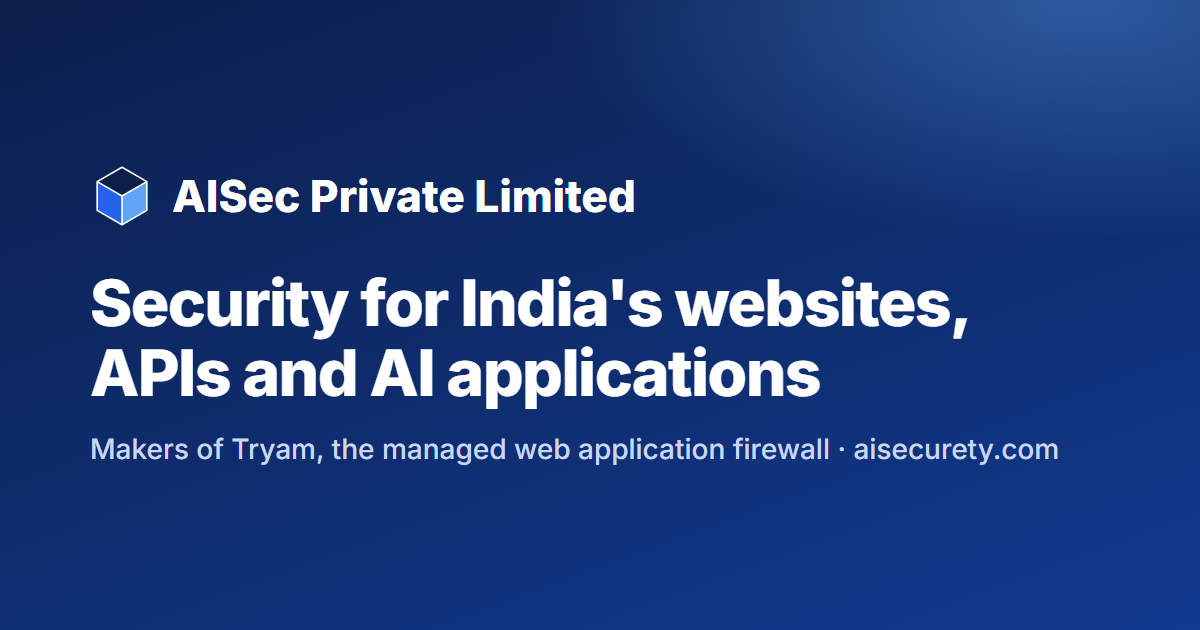
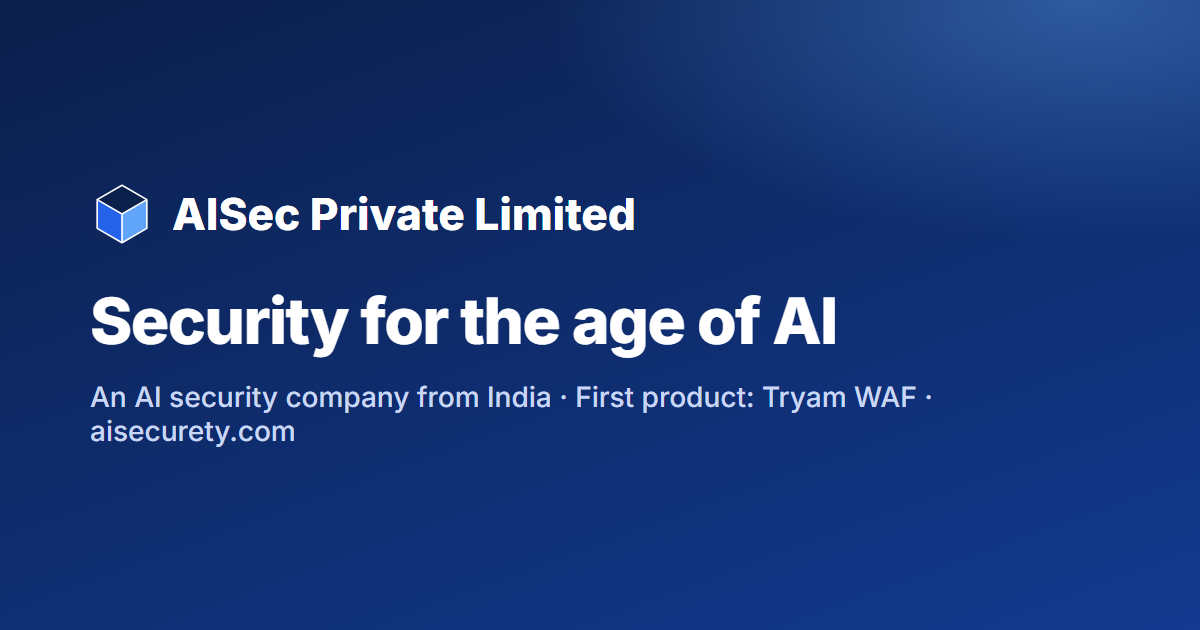
Position AISec as an AI security company; Tryam WAF as product 1

Changed region(s): [[0.0617, 0.4222, 0.8942, 0.754], [0.0617, 0.2714, 0.555, 0.3921]]

diff --git a/index.html b/index.html
@@ -3,12 +3,12 @@
 <head>
 <meta charset="utf-8">
 <meta name="viewport" content="width=device-width, initial-scale=1">
-<title>AISec Private Limited: web and AI application security, made in India</title>
-<meta name="description" content="AISec Private Limited is an Indian cyber security company. We build Tryam, a managed web application firewall, and help businesses secure their websites, APIs and AI applications.">
+<title>AISec Private Limited: an AI security company from India</title>
+<meta name="description" content="AISec Private Limited is an Indian AI security company. We build products for the security challenges AI brings to websites, APIs and AI applications. Our first product is Tryam WAF.">
 <link rel="canonical" href="https://aisecurety.com/">
 <meta property="og:site_name" content="AISec Private Limited">
-<meta property="og:title" content="AISec Private Limited: web and AI application security, made in India">
-<meta property="og:description" content="We build Tryam, a managed web application firewall, and help Indian businesses secure their websites, APIs and AI applications.">
+<meta property="og:title" content="AISec Private Limited: an AI security company from India">
+<meta property="og:description" content="We build products for the security challenges AI brings to websites, APIs and AI applications. Our first product is Tryam WAF.">
 <meta property="og:type" content="website">
 <meta property="og:url" content="https://aisecurety.com/">
 <meta property="og:image" content="https://aisecurety.com/img/og.png">
@@ -19,19 +19,20 @@
 <link rel="preconnect" href="https://fonts.gstatic.com" crossorigin>
 <link href="https://fonts.googleapis.com/css2?family=Inter:wght@400;500;600;700;800&display=swap" rel="stylesheet">
 <link rel="stylesheet" href="/styles.css">
-<script type="application/ld+json">{"@context":"https://schema.org","@type":"Organization","@id":"https://aisecurety.com/#organization","name":"AISec Private Limited","legalName":"AISec Private Limited","url":"https://aisecurety.com/","logo":"https://aisecurety.com/img/logo-mark.svg","description":"AISec Private Limited is an Indian cyber security company. It builds Tryam, a managed web application firewall, and provides security consulting, secure development and infrastructure security services.","identifier":{"@type":"PropertyValue","propertyID":"CIN","value":"U62011UW2026PTC260693"},"foundingDate":"2026","telephone":"+918287593670","email":"support@tryamaisec.com","address":{"@type":"PostalAddress","streetAddress":"13, Atta Mazra, Shamli, Kandhala Rural Shamli","addressLocality":"Kandhala","addressRegion":"Uttar Pradesh","postalCode":"247775","addressCountry":"IN"},"brand":{"@type":"Brand","name":"Tryam","url":"https://tryamaisec.com/"},"sameAs":["https://tryamaisec.com/","https://www.youtube.com/@tryamaisec"]}</script>
+<script type="application/ld+json">{"@context":"https://schema.org","@type":"Organization","@id":"https://aisecurety.com/#organization","name":"AISec Private Limited","legalName":"AISec Private Limited","url":"https://aisecurety.com/","logo":"https://aisecurety.com/img/logo-mark.svg","description":"AISec Private Limited is an Indian AI security company. It builds products for the security challenges AI brings to websites, APIs and AI applications. Its first product is Tryam WAF, a managed web application firewall.","knowsAbout":["AI security","Web application security","API security","Prompt injection","Bot management","Web application firewall"],"identifier":{"@type":"PropertyValue","propertyID":"CIN","value":"U62011UW2026PTC260693"},"foundingDate":"2026","telephone":"+918287593670","email":"support@tryamaisec.com","address":{"@type":"PostalAddress","streetAddress":"13, Atta Mazra, Shamli, Kandhala Rural Shamli","addressLocality":"Kandhala","addressRegion":"Uttar Pradesh","postalCode":"247775","addressCountry":"IN"},"brand":{"@type":"Brand","name":"Tryam","url":"https://tryamaisec.com/"},"sameAs":["https://tryamaisec.com/","https://www.youtube.com/@tryamaisec"]}</script>
 </head>
 <body>
 <a class="skip" href="#main">Skip to content</a>
 <header class="top" id="top">
   <div class="wrap top-in">
-    <a class="brand" href="/" aria-label="AISec Private Limited, home"><img src="/img/logo-mark.svg" alt="" width="34" height="34"><span>AISec<small>Private Limited</small></span></a>
+    <a class="brand" href="/" aria-label="AISec Private Limited, home"><img src="/img/logo-mark.svg" alt="" width="34" height="34"><span>AISec<small>AI security company</small></span></a>
     <input type="checkbox" id="nav-t" class="nav-t" aria-label="Open menu">
     <label for="nav-t" class="nav-b" aria-hidden="true"><span></span><span></span><span></span></label>
     <nav aria-label="Main">
-      <a href="#product">Product</a>
+      <a href="#challenge">The challenge</a>
+      <a href="#products">Products</a>
+      <a href="#approach">Approach</a>
       <a href="#services">Services</a>
-      <a href="#why">Why AISec</a>
       <a href="#company">Company</a>
       <a class="btn small" href="#contact">Contact us</a>
     </nav>
@@ -42,29 +43,29 @@
 <section class="hero">
   <div class="wrap hero-in">
     <div class="hero-copy">
-      <p class="eyebrow">Cyber security company · Made in India</p>
-      <h1>Security for India's websites, APIs and AI applications</h1>
-      <p class="lead">AISec Private Limited builds <strong>Tryam</strong>, a managed web application firewall that stops attacks before they reach a business's website. Alongside the product, we help organisations design, build and run their systems securely.</p>
+      <p class="eyebrow">AI security company · Made in India</p>
+      <h1>Security for the age of AI</h1>
+      <p class="lead">AI is changing how applications are built and how they are attacked. <strong>AISec</strong> builds security products for the challenges AI brings to websites, APIs and AI applications, starting with <strong>Tryam WAF</strong>.</p>
       <div class="cta">
-        <a class="btn" href="https://tryamaisec.com/get-started">Get started with Tryam</a>
+        <a class="btn" href="#products">Our first product: Tryam WAF</a>
         <a class="btn ghost" href="#contact">Talk to us</a>
       </div>
       <ul class="hero-points">
         <li>Indian company, registered in Uttar Pradesh</li>
-        <li>Edge servers in Mumbai and Singapore</li>
-        <li>Built for teams without a security department</li>
+        <li>Focused only on AI-era security</li>
+        <li>First product live: Tryam WAF</li>
       </ul>
     </div>
     <div class="hero-art" aria-hidden="true">
       <div class="shield">
         <div class="flow">
-          <div class="node in">Visitors and bots</div>
+          <div class="node in">Users, bots and AI agents</div>
           <div class="arrow"></div>
-          <div class="node core"><img src="/img/logo-mark.svg" alt="" width="40" height="40"><b>Tryam edge</b><span>filters attacks</span></div>
+          <div class="node core"><img src="/img/logo-mark.svg" alt="" width="40" height="40"><b>AISec protection</b><span>for web, APIs and AI apps</span></div>
           <div class="arrow ok"></div>
-          <div class="node out">Your website</div>
+          <div class="node out">Your website, API or AI app</div>
         </div>
-        <div class="blocked"><span>SQL injection</span><span>XSS</span><span>Bot floods</span><span>Prompt injection</span></div>
+        <div class="blocked"><span>Prompt injection</span><span>Jailbreaks</span><span>Data leaks</span><span>Bot floods</span><span>SQL injection</span></div>
       </div>
     </div>
   </div>
@@ -72,51 +73,79 @@
 
 <section class="band">
   <div class="wrap band-in">
-    <div><b>3 steps</b><span>to put a website behind Tryam</span></div>
-    <div><b>Detect first</b><span>see what would be blocked before you enforce</span></div>
-    <div><b>HTTPS included</b><span>certificates issued and renewed for every domain</span></div>
-    <div><b>30-day trial</b><span>no card needed</span></div>
+    <div><b>AI security</b><span>our only focus</span></div>
+    <div><b>Tryam WAF</b><span>our first product, live today</span></div>
+    <div><b>Web, APIs, AI apps</b><span>protected at the edge</span></div>
+    <div><b>Built in India</b><span>for Indian businesses and rules</span></div>
   </div>
 </section>
 
-<section class="sec" id="problem">
-  <div class="wrap two">
-    <div>
-      <p class="eyebrow">The problem</p>
-      <h2>Most Indian businesses are online. Few have a security team.</h2>
-    </div>
-    <div class="prose">
-      <p>Small and mid-sized companies, start-ups and agencies run websites, online stores, APIs and, more and more, AI chat and assistant features. Automated attacks such as SQL injection, cross-site scripting, credential stuffing and bot floods hit every public site, whatever its size.</p>
-      <p>Enterprise security tools assume a dedicated team to configure and watch them. Indian rules also expect more from businesses: CERT-In requires certain cyber incidents to be reported within 6 hours.</p>
-      <p>AISec exists to give these businesses protection they can switch on in minutes and understand without being security specialists.</p>
-    </div>
-  </div>
-</section>
-
-<section class="sec alt" id="product">
+<section class="sec" id="challenge">
   <div class="wrap">
     <div class="head">
-      <p class="eyebrow">Our product</p>
-      <h2>Tryam: a managed web application firewall</h2>
-      <p class="sub">A business points its domain at Tryam. Our edge filters every request and passes only clean traffic to the business's own server, with HTTPS included.</p>
+      <p class="eyebrow">The challenge</p>
+      <h2>AI has created new ways to attack applications</h2>
+      <p class="sub">Businesses are adding AI chat, assistants and AI-driven APIs to their products. Attackers are using automation at a scale they never had before. Traditional security tools were not designed for either.</p>
     </div>
     <div class="grid three">
-      <article class="card"><div class="ic" aria-hidden="true">⛨</div><h3>Stops common web attacks</h3><p>Blocks SQL injection, cross-site scripting, path traversal, command injection and more, at the edge, before they reach the site.</p></article>
-      <article class="card"><div class="ic" aria-hidden="true">◎</div><h3>Detect mode first</h3><p>New domains start in detect mode, so a business sees exactly what would be blocked before switching to block mode.</p></article>
-      <article class="card"><div class="ic" aria-hidden="true">⇅</div><h3>Rate limits and bot control</h3><p>Per-site and per-path limits, for example on a login page. An address that floods a site is cut off automatically.</p></article>
-      <article class="card"><div class="ic" aria-hidden="true">✦</div><h3>APIs and AI applications</h3><p>OpenAPI schema validation, JWT checks and object-enumeration alerts for APIs, and an AI firewall against prompt injection, jailbreaks and data leaks.</p></article>
-      <article class="card"><div class="ic" aria-hidden="true">⎙</div><h3>CERT-In report drafts</h3><p>For an incident, the console prepares a draft CERT-In report from what the firewall saw, to help meet India's 6-hour reporting rule.</p></article>
-      <article class="card"><div class="ic" aria-hidden="true">⌂</div><h3>White label for partners</h3><p>Agencies and managed service providers can offer Tryam under their own brand, with a partner console on their own domain.</p></article>
+      <article class="card"><div class="ic" aria-hidden="true">⌘</div><h3>Prompt injection and jailbreaks</h3><p>Crafted inputs try to make an AI application ignore its instructions, reveal its system prompt or do things it should not.</p></article>
+      <article class="card"><div class="ic" aria-hidden="true">⊘</div><h3>Data leaks through AI responses</h3><p>Personal data, secrets and internal information can leak out through what an AI application says.</p></article>
+      <article class="card"><div class="ic" aria-hidden="true">⇶</div><h3>Automated attacks at scale</h3><p>Bots and scripts sweep many sites, rotate addresses and try stolen passwords faster than any person can respond.</p></article>
+      <article class="card"><div class="ic" aria-hidden="true">⇄</div><h3>APIs as the new front door</h3><p>AI features run on APIs, and API abuse such as object enumeration and broken token checks exposes data directly.</p></article>
+      <article class="card"><div class="ic" aria-hidden="true">⛨</div><h3>Classic web attacks have not gone away</h3><p>SQL injection, cross-site scripting and command injection still hit every public site, now launched by automated tools.</p></article>
+      <article class="card"><div class="ic" aria-hidden="true">⎙</div><h3>Stricter rules in India</h3><p>CERT-In requires certain cyber incidents to be reported within 6 hours, and most smaller businesses have no security team.</p></article>
+    </div>
+  </div>
+</section>
+
+<section class="sec alt" id="products">
+  <div class="wrap">
+    <div class="head">
+      <p class="eyebrow">Products</p>
+      <h2>Every AISec product answers an AI-era security challenge</h2>
+      <p class="sub">We build focused products, each solving one real problem that AI has created or made worse. Our first product protects the place where most of these attacks arrive: the website, API or AI application itself.</p>
     </div>
 
-    <div class="steps">
-      <h3>Onboarding in three steps</h3>
-      <ol>
-        <li><b>Add the domain</b><span>and tell Tryam where the website's server lives.</span></li>
-        <li><b>Prove ownership</b><span>by publishing one DNS TXT record.</span></li>
-        <li><b>Point the A record</b><span>at Tryam. Protection and HTTPS start straight away.</span></li>
+    <article class="product">
+      <div class="product-head">
+        <img src="/img/logo-mark.svg" alt="" width="56" height="56">
+        <div>
+          <p class="tag">Product 1 · Available now</p>
+          <h3>Tryam WAF</h3>
+          <p>A managed web application firewall. A business points its domain at Tryam; our edge filters every request and passes only clean traffic to its own server, with HTTPS included.</p>
+        </div>
+        <a class="btn" href="https://tryamaisec.com/">Visit tryamaisec.com</a>
+      </div>
+      <div class="grid three">
+        <div class="feat"><h4>AI firewall</h4><p>Protection for AI applications against prompt injection, jailbreaks and data leaks such as personal data and secrets.</p></div>
+        <div class="feat"><h4>API protection</h4><p>OpenAPI schema validation, JWT checks and object-enumeration (BOLA) alerts, plus API discovery on every plan.</p></div>
+        <div class="feat"><h4>Bot and abuse control</h4><p>Per-site and per-path rate limits, and an address that floods a site is cut off automatically.</p></div>
+        <div class="feat"><h4>Web attack filtering</h4><p>Blocks SQL injection, cross-site scripting, path traversal, command injection and more, at the edge.</p></div>
+        <div class="feat"><h4>Security visibility</h4><p>Traffic and blocked requests per domain, and a searchable security event log that can be exported as CSV.</p></div>
+        <div class="feat"><h4>CERT-In ready</h4><p>For an incident, the console prepares a draft CERT-In report from what the firewall saw, to help meet the 6-hour rule.</p></div>
+      </div>
+      <ol class="mini-steps">
+        <li><b>Add the domain</b> and where its server lives</li>
+        <li><b>Prove ownership</b> with one DNS TXT record</li>
+        <li><b>Point the A record</b> at Tryam: protection and HTTPS start</li>
       </ol>
-      <a class="btn" href="https://tryamaisec.com/">Visit tryamaisec.com</a>
+    </article>
+  </div>
+</section>
+
+<section class="sec dark" id="approach">
+  <div class="wrap">
+    <div class="head">
+      <p class="eyebrow">Our approach</p>
+      <h2>How we build AI security products</h2>
+    </div>
+    <div class="grid three">
+      <article class="card"><h3>Start from a real challenge</h3><p>Each product begins with an attack businesses face today, not with a technology looking for a use.</p></article>
+      <article class="card"><h3>Simple enough to switch on</h3><p>No security team needed. Tryam takes three onboarding steps, and new domains start in detect mode so nothing is blocked by surprise.</p></article>
+      <article class="card"><h3>Resilient by design</h3><p>Tryam's edge runs on three servers, two in Mumbai and one in Singapore, each protecting traffic on its own. A standby control server takes over in about two seconds.</p></article>
+      <article class="card"><h3>Made for Indian rules</h3><p>CERT-In report drafts, an exportable security event log, and team sign-in with single sign-on and two-factor codes.</p></article>
+      <article class="card"><h3>Reach through partners</h3><p>Agencies and managed service providers can offer our products under their own brand, with a partner console on their own domain.</p></article>
+      <article class="card"><h3>Honest and transparent</h3><p>A 30-day free trial with no card needed, and customers see what would be blocked before anything is blocked.</p></article>
     </div>
   </div>
 </section>
@@ -125,69 +154,53 @@
   <div class="wrap">
     <div class="head">
       <p class="eyebrow">Services</p>
-      <h2>Security services alongside the product</h2>
-      <p class="sub">Our team works with organisations that want hands-on help to secure what they build and run.</p>
+      <h2>AI security services alongside our products</h2>
+      <p class="sub">For organisations that want hands-on help to secure the AI features, APIs and systems they build and run.</p>
     </div>
     <div class="grid two-col">
-      <article class="card wide"><h3>Security consulting and support</h3><p>Reviews of websites, APIs and cloud set-ups, guidance on fixing what we find, and help preparing for audits and CERT-In obligations.</p></article>
-      <article class="card wide"><h3>Secure design and development</h3><p>Design and development of web applications and APIs with security built in from the start: authentication, access control, input handling and logging.</p></article>
+      <article class="card wide"><h3>AI and application security consulting</h3><p>Reviews of AI features, websites, APIs and cloud set-ups, guidance on fixing what we find, and help preparing for audits and CERT-In obligations.</p></article>
+      <article class="card wide"><h3>Secure AI and application development</h3><p>Design and development of AI features, web applications and APIs with security built in: input and output handling, authentication, access control and logging.</p></article>
       <article class="card wide"><h3>Infrastructure and network security management</h3><p>Setting up and managing the security of servers and networks: firewalls, HTTPS, monitoring, backups and incident response.</p></article>
-      <article class="card wide"><h3>Security research and development</h3><p>Research into new attack techniques against web and AI applications, turned into protection inside Tryam.</p></article>
+      <article class="card wide"><h3>AI security research and development</h3><p>Research into new attack techniques against web and AI applications, turned into protection inside our products.</p></article>
     </div>
   </div>
 </section>
 
-<section class="sec dark" id="why">
-  <div class="wrap">
-    <div class="head">
-      <p class="eyebrow">Why AISec</p>
-      <h2>Built in India, for the way Indian businesses work</h2>
-    </div>
-    <div class="grid three">
-      <article class="card"><h3>Simple enough to switch on</h3><p>Three onboarding steps, detect mode before block mode and automatic HTTPS. No security team needed to get started.</p></article>
-      <article class="card"><h3>Resilient by design</h3><p>Three edge servers, two in Mumbai and one in Singapore, each protecting traffic on its own. If the main control server fails, a standby takes over in about two seconds.</p></article>
-      <article class="card"><h3>Ready for Indian rules</h3><p>CERT-In report drafts, a searchable security event log that can be exported, and team sign-in with single sign-on and two-factor codes.</p></article>
-      <article class="card"><h3>Made for AI-era applications</h3><p>Protection for APIs and AI features, not just web pages: schema checks, token checks and an AI firewall for prompts and responses.</p></article>
-      <article class="card"><h3>Scales through partners</h3><p>A white-label partner programme lets agencies and managed service providers protect many client sites under their own brand.</p></article>
-      <article class="card"><h3>Honest and transparent</h3><p>Every plan starts with a 30-day free trial with no card needed, and customers see what Tryam would block before it blocks anything.</p></article>
-    </div>
-  </div>
-</section>
-
-<section class="sec" id="company">
+<section class="sec alt" id="company">
   <div class="wrap two">
     <div>
       <p class="eyebrow">Company</p>
       <h2>About AISec Private Limited</h2>
       <div class="prose">
-        <p>AISec Private Limited is a private limited company incorporated in India in 2026. We develop and operate Tryam, our managed web application firewall, and provide information technology security services to businesses.</p>
-        <p>Our mission is to make strong web and AI application security simple and accessible for every Indian business, from a single website to an agency looking after hundreds.</p>
+        <p>AISec Private Limited is an AI security company, incorporated in India in 2026. Every product we build addresses a security challenge that AI has created or made worse. Our first product is Tryam WAF, a managed web application firewall with protection for websites, APIs and AI applications.</p>
+        <p>Our mission is to make AI-era security simple and accessible for every Indian business, from a single website to an agency looking after hundreds.</p>
       </div>
     </div>
     <dl class="facts">
       <div><dt>Legal name</dt><dd>AISec Private Limited</dd></div>
+      <div><dt>Focus</dt><dd>AI security products and services</dd></div>
       <div><dt>Corporate Identity Number (CIN)</dt><dd class="mono">U62011UW2026PTC260693</dd></div>
       <div><dt>Incorporated</dt><dd>2026, India</dd></div>
       <div><dt>Registered office</dt><dd>13, Atta Mazra, Shamli, Kandhala Rural Shamli, Kandhala, Uttar Pradesh 247775, India</dd></div>
       <div><dt>Registered for GST</dt><dd>Yes, Uttar Pradesh</dd></div>
-      <div><dt>Product</dt><dd><a href="https://tryamaisec.com/">Tryam</a>, managed web application firewall</dd></div>
+      <div><dt>First product</dt><dd><a href="https://tryamaisec.com/">Tryam WAF</a>, managed web application firewall</dd></div>
     </dl>
   </div>
 </section>
 
-<section class="sec alt" id="contact">
+<section class="sec" id="contact">
   <div class="wrap two">
     <div>
       <p class="eyebrow">Contact</p>
       <h2>Talk to us</h2>
-      <p class="sub">For the product, services, partnerships or investment enquiries, reach us by email, phone or WhatsApp.</p>
+      <p class="sub">For our products, services, partnerships or investment enquiries, reach us by email, phone or WhatsApp.</p>
     </div>
     <div class="contact">
       <a class="c-row" href="mailto:support@tryamaisec.com"><span>Email</span><b>support@tryamaisec.com</b></a>
       <a class="c-row" href="tel:+918287593670"><span>Phone</span><b>+91 82875 93670</b></a>
       <a class="c-row" href="https://wa.me/918287593670" rel="noopener"><span>WhatsApp</span><b>Chat with us</b></a>
       <div class="c-row"><span>Office</span><b>13, Atta Mazra, Shamli, Kandhala Rural Shamli, Kandhala, Uttar Pradesh 247775, India</b></div>
-      <a class="btn" href="https://tryamaisec.com/get-started">Get started with Tryam</a>
+      <a class="btn" href="https://tryamaisec.com/get-started">Get started with Tryam WAF</a>
     </div>
   </div>
 </section>
@@ -195,9 +208,9 @@
 
 <footer class="foot">
   <div class="wrap foot-in">
-    <div class="foot-brand"><img src="/img/logo-mark.svg" alt="" width="28" height="28"><div><b>AISec Private Limited</b><span>CIN U62011UW2026PTC260693</span></div></div>
+    <div class="foot-brand"><img src="/img/logo-mark.svg" alt="" width="28" height="28"><div><b>AISec Private Limited</b><span>AI security company · CIN U62011UW2026PTC260693</span></div></div>
     <nav aria-label="Footer">
-      <a href="https://tryamaisec.com/">Tryam</a>
+      <a href="https://tryamaisec.com/">Tryam WAF</a>
       <a href="https://tryamaisec.com/privacy">Privacy</a>
       <a href="https://tryamaisec.com/terms">Terms</a>
       <a href="https://tryamaisec.com/refunds">Refunds</a>

diff --git a/styles.css b/styles.css
@@ -9,7 +9,7 @@ body{margin:0;font:16px/1.65 Inter,system-ui,-apple-system,"Segoe UI",Roboto,Ari
 img{max-width:100%;display:block}
 a{color:var(--blue);text-decoration:none}
 a:hover{text-decoration:underline}
-h1,h2,h3{color:var(--ink);line-height:1.2;letter-spacing:-.02em;margin:0 0 .5em}
+h1,h2,h3{color:var(--ink);line-height:1.2;letter-spacing:-.02em;margin:0 0 .5em;text-wrap:balance}
 h1{font-size:clamp(2.1rem,4.6vw,3.4rem);font-weight:800}
 h2{font-size:clamp(1.6rem,3vw,2.25rem);font-weight:750}
 h3{font-size:1.1rem;font-weight:650}
@@ -148,3 +148,19 @@ a.c-row:hover{border-color:var(--blue);text-decoration:none}
   .nav-t:checked~nav{display:flex}
 }
 @media (prefers-reduced-motion:reduce){html{scroll-behavior:auto}.btn{transition:none}}
+
+/* product */
+.product{background:#fff;border:1px solid var(--line);border-radius:18px;box-shadow:var(--shadow);padding:34px;border-top:4px solid var(--blue)}
+.product-head{display:grid;grid-template-columns:auto 1fr auto;gap:24px;align-items:center;margin-bottom:30px}
+.product-head h3{font-size:1.7rem;margin:0 0 .3em}
+.product-head p{margin:0;color:var(--text)}
+.tag{display:inline-block;font-size:.74rem;font-weight:700;letter-spacing:.1em;text-transform:uppercase;color:#047857;background:#d1fae5;border-radius:999px;padding:3px 10px;margin-bottom:8px!important}
+.feat{padding:18px 20px;border-radius:12px;background:var(--soft);border:1px solid var(--line)}
+.feat h4{margin:0 0 6px;color:var(--ink);font-size:1rem}
+.feat p{margin:0;font-size:.94rem}
+.mini-steps{list-style:none;counter-reset:s;margin:26px 0 0;padding:22px 0 0;border-top:1px solid var(--line);display:grid;grid-template-columns:repeat(3,1fr);gap:18px;font-size:.94rem;color:var(--muted)}
+.mini-steps li{counter-increment:s;position:relative;padding-left:40px}
+.mini-steps li::before{content:counter(s);position:absolute;left:0;top:-2px;width:28px;height:28px;border-radius:50%;background:var(--navy);color:#fff;display:grid;place-items:center;font-weight:700;font-size:.85rem}
+.mini-steps b{color:var(--ink)}
+@media (max-width:980px){.product-head{grid-template-columns:auto 1fr}.product-head .btn{grid-column:1/-1;justify-self:start}}
+@media (max-width:720px){.product{padding:22px}.product-head{grid-template-columns:1fr}.mini-steps{grid-template-columns:1fr}}
